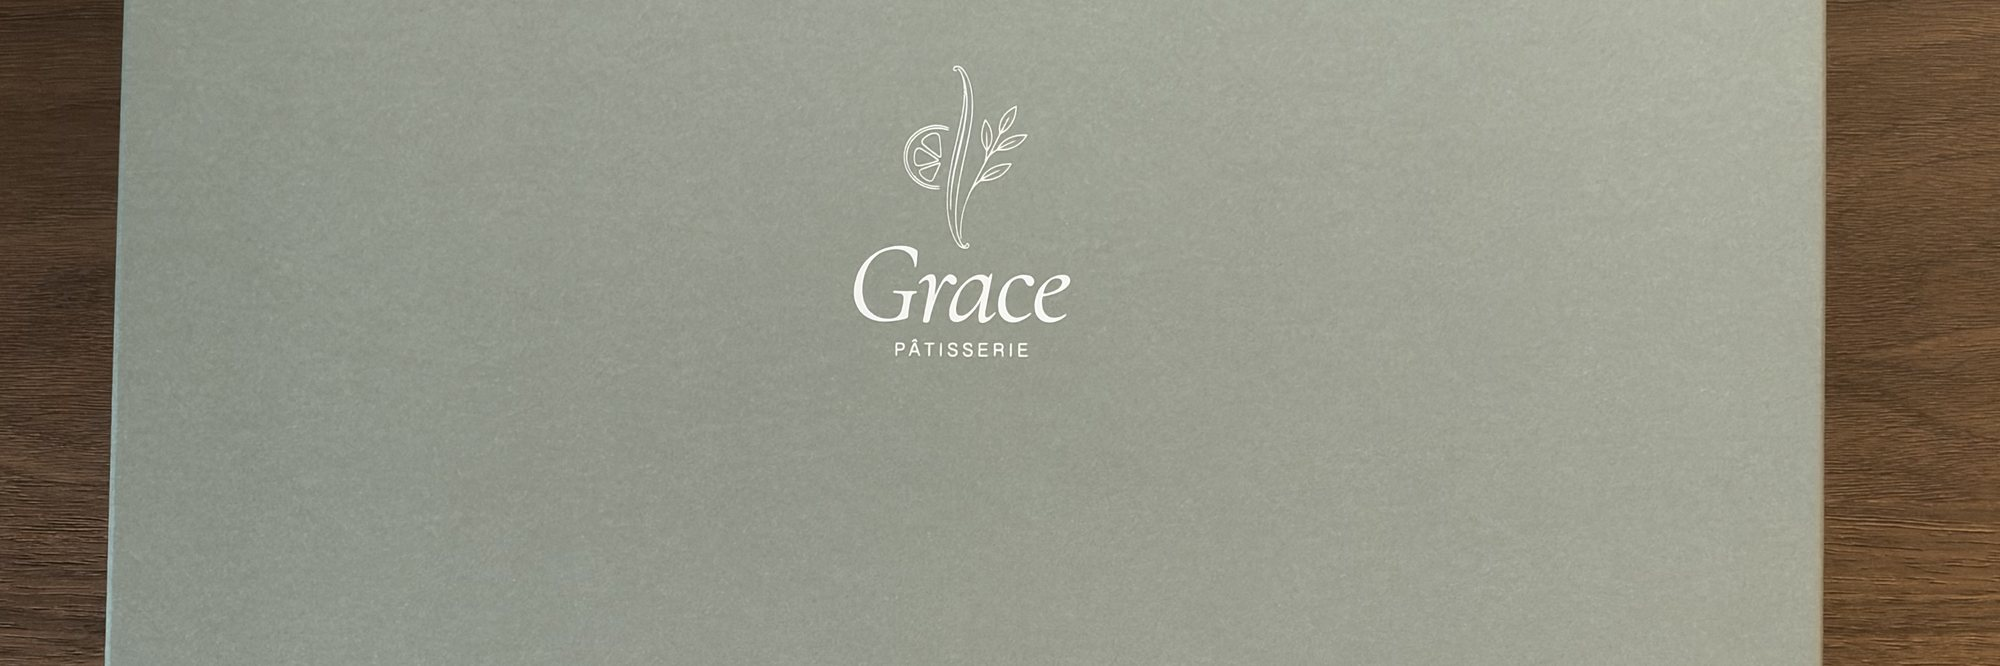
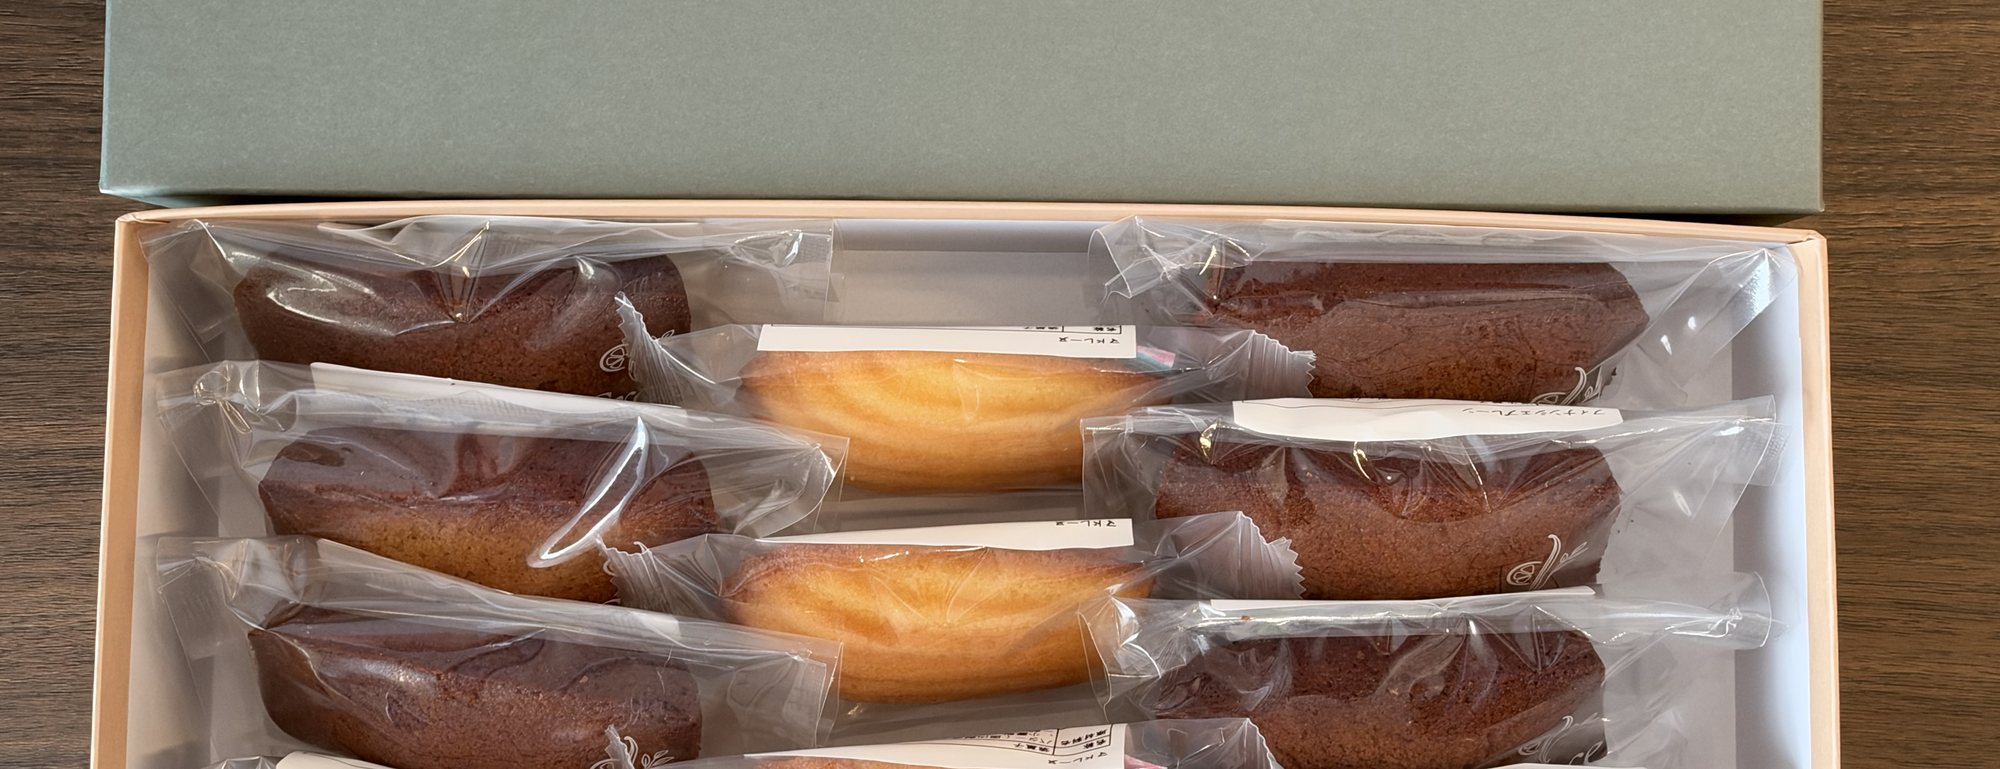
gift: ヒーロー背景を、箱を正立させた中身の帯に変更（ロゴが見出しと重ならない）

diff --git a/app/gift/page.tsx b/app/gift/page.tsx
@@ -27,7 +27,7 @@ export default function GiftPage() {
       <main>
         {/* ─── ヒーロー見出し ─── */}
         <section className="relative overflow-hidden bg-grace-bg-dark flex items-center justify-center" style={{ minHeight: '480px' }}>
-          {/* 背景写真: ギフトLの箱の蓋（自店撮影。ロゴが正立するよう90度回転済み） */}
+          {/* 背景写真: ギフトLの箱（蓋の端と中の焼き菓子・自店撮影。箱を正立させて横帯に切り出し） */}
           <Image
             src="/photos/own_gift_l_lid.jpg"
             alt=""
